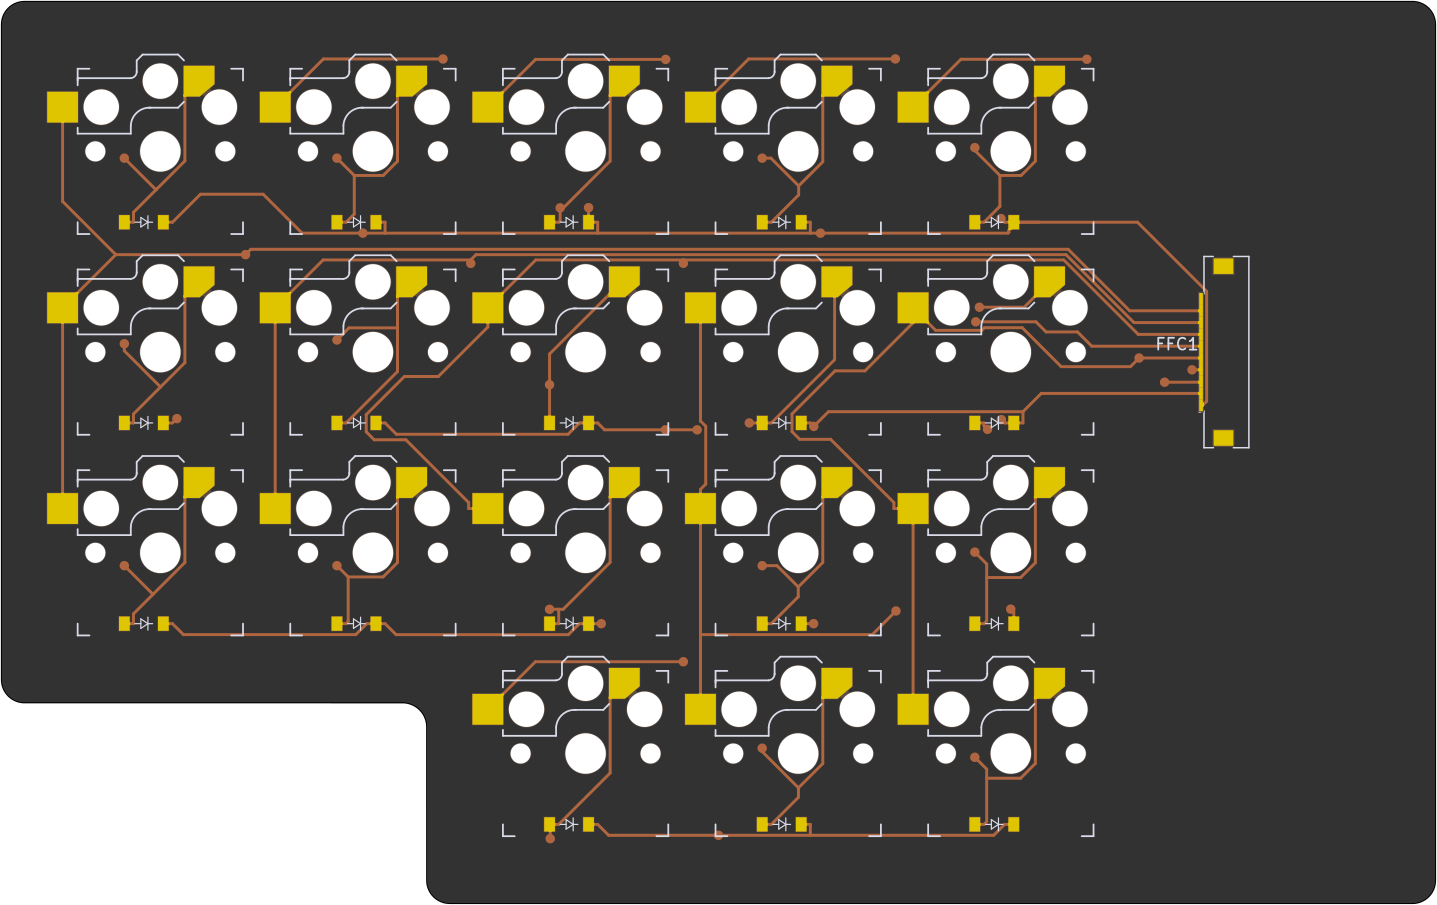
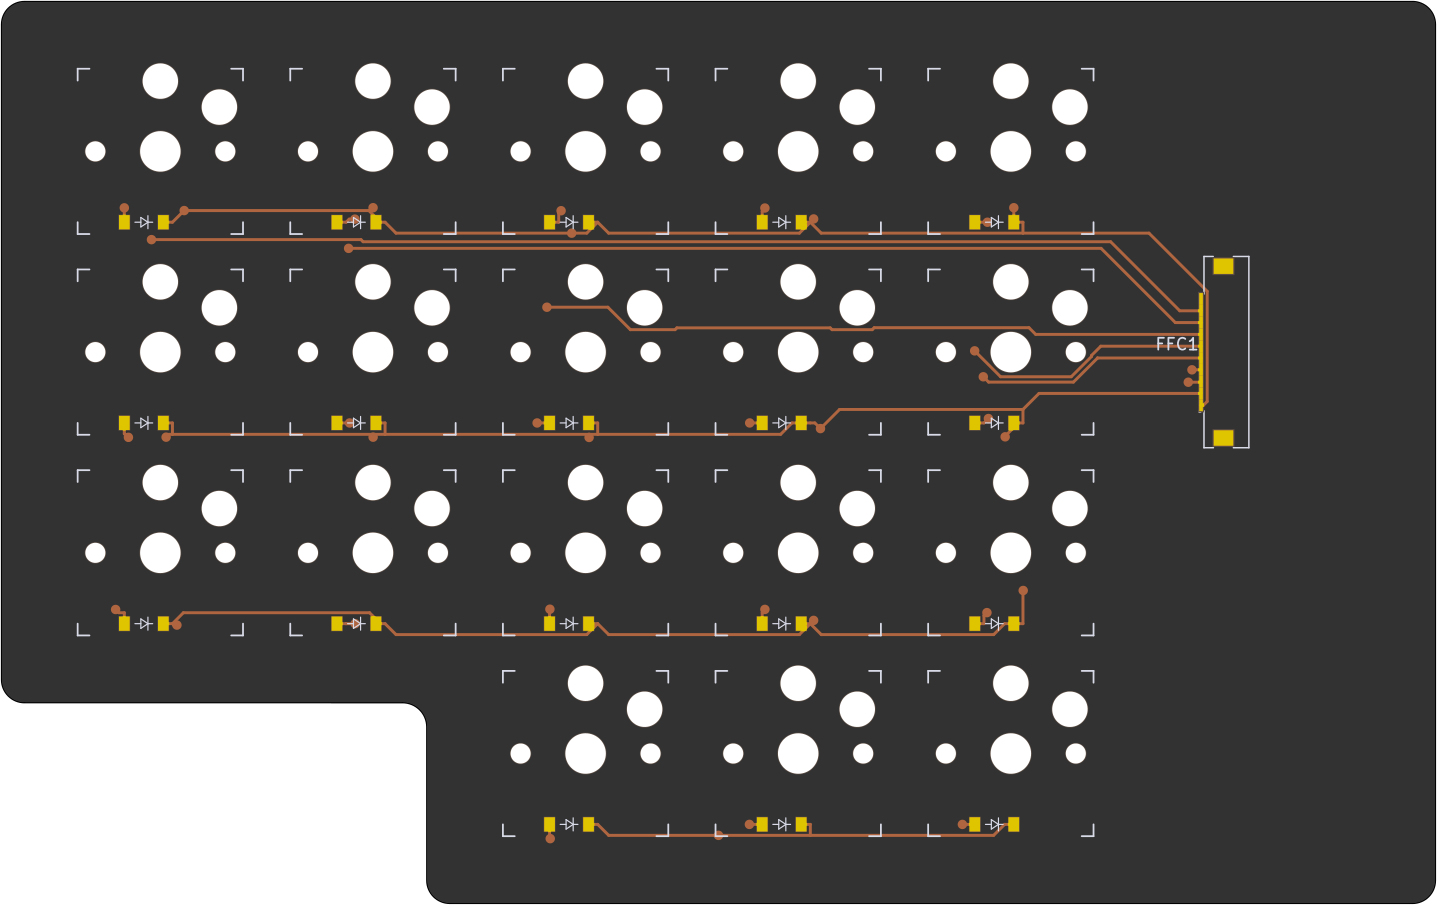
Make board one-sided until I can figure out why routing has so many through holes

diff --git a/input/footprints/diode.js b/input/footprints/diode.js
@@ -3,13 +3,15 @@
 // @infused-kim's improvements:
 //  - Added option to hide thru-holes
 //  - Added virtual attribute to silence DRC error
+//  - Added attribute to indicate which side to include diode. Values can be "front", "back", or "both"
 
 module.exports = {
     params: {
         designator: 'D',
         include_tht: true,
         from: undefined,
-        to: undefined
+        to: undefined,
+        side: 'back'
     },
     body: p => {
 
@@ -18,23 +20,12 @@ module.exports = {
         (pad 2 thru_hole circle (at 3.81 0 ${p.rot}) (size 1.905 1.905) (drill 0.9906) (layers *.Cu *.Mask) ${p.from.str})
         `;
 
-        const footprint = `
-    (module ComboDiode (layer F.Cu) (tedit 5B24D78E)
-        ${p.at /* parametric position */}
-        (attr virtual)
-
+        const back = `
         ${'' /* footprint reference */}
-        (fp_text reference "${p.ref}" (at 0 0) (layer F.SilkS) ${p.ref_hide} (effects (font (size 1.27 1.27) (thickness 0.15))))
-        (fp_text value "" (at 0 0) (layer F.SilkS) hide (effects (font (size 1.27 1.27) (thickness 0.15))))
+        (fp_text reference "${p.ref}" (at 0 0) (layer B.SilkS) ${p.ref_hide} (effects (font (size 1.27 1.27) (thickness 0.15))))
+        (fp_text value "" (at 0 0) (layer B.SilkS) hide (effects (font (size 1.27 1.27) (thickness 0.15))))
 
         ${''/* diode symbols */}
-        (fp_line (start 0.25 0) (end 0.75 0) (layer F.SilkS) (width 0.1))
-        (fp_line (start 0.25 0.4) (end -0.35 0) (layer F.SilkS) (width 0.1))
-        (fp_line (start 0.25 -0.4) (end 0.25 0.4) (layer F.SilkS) (width 0.1))
-        (fp_line (start -0.35 0) (end 0.25 -0.4) (layer F.SilkS) (width 0.1))
-        (fp_line (start -0.35 0) (end -0.35 0.55) (layer F.SilkS) (width 0.1))
-        (fp_line (start -0.35 0) (end -0.35 -0.55) (layer F.SilkS) (width 0.1))
-        (fp_line (start -0.75 0) (end -0.35 0) (layer F.SilkS) (width 0.1))
         (fp_line (start 0.25 0) (end 0.75 0) (layer B.SilkS) (width 0.1))
         (fp_line (start 0.25 0.4) (end -0.35 0) (layer B.SilkS) (width 0.1))
         (fp_line (start 0.25 -0.4) (end 0.25 0.4) (layer B.SilkS) (width 0.1))
@@ -44,15 +35,41 @@ module.exports = {
         (fp_line (start -0.75 0) (end -0.35 0) (layer B.SilkS) (width 0.1))
 
         ${''/* SMD pads on both sides */}
-        (pad 1 smd rect (at -1.65 0 ${p.rot}) (size 0.9 1.2) (layers F.Cu F.Paste F.Mask) ${p.to.str})
-        (pad 2 smd rect (at 1.65 0 ${p.rot}) (size 0.9 1.2) (layers B.Cu B.Paste B.Mask) ${p.from.str})
         (pad 1 smd rect (at -1.65 0 ${p.rot}) (size 0.9 1.2) (layers B.Cu B.Paste B.Mask) ${p.to.str})
-        (pad 2 smd rect (at 1.65 0 ${p.rot}) (size 0.9 1.2) (layers F.Cu F.Paste F.Mask) ${p.from.str})
+        (pad 2 smd rect (at 1.65 0 ${p.rot}) (size 0.9 1.2) (layers B.Cu B.Paste B.Mask) ${p.from.str})
+        `
 
-        ${''/* THT terminals */}
-        ${ p.include_tht ? tht : '' }
-    )
-    `
+        const front = `
+        ${'' /* footprint reference */}
+        (fp_text reference "${p.ref}" (at 0 0) (layer F.SilkS) ${p.ref_hide} (effects (font (size 1.27 1.27) (thickness 0.15))))
+        (fp_text value "" (at 0 0) (layer F.SilkS) hide (effects (font (size 1.27 1.27) (thickness 0.15))))
+        
+        ${''/* diode symbols */}
+        (fp_line (start 0.25 0) (end 0.75 0) (layer F.SilkS) (width 0.1))
+        (fp_line (start 0.25 0.4) (end -0.35 0) (layer F.SilkS) (width 0.1))
+        (fp_line (start 0.25 -0.4) (end 0.25 0.4) (layer F.SilkS) (width 0.1))
+        (fp_line (start -0.35 0) (end 0.25 -0.4) (layer F.SilkS) (width 0.1))
+        (fp_line (start -0.35 0) (end -0.35 0.55) (layer F.SilkS) (width 0.1))
+        (fp_line (start -0.35 0) (end -0.35 -0.55) (layer F.SilkS) (width 0.1))
+        (fp_line (start -0.75 0) (end -0.35 0) (layer F.SilkS) (width 0.1))
+
+        ${''/* SMD pads on both sides */}
+        (pad 1 smd rect (at -1.65 0 ${p.rot}) (size 0.9 1.2) (layers F.Cu F.Paste F.Mask) ${p.to.str})
+        (pad 2 smd rect (at 1.65 0 ${p.rot}) (size 0.9 1.2) (layers F.Cu F.Paste F.Mask) ${p.from.str})
+        `
+
+        const footprint = `
+        (module ComboDiode (layer ${ p.side == 'back' ? 'B' : 'F' }.Cu) (tedit 5B24D78E)
+            ${p.at /* parametric position */}
+            (attr virtual)
+    
+            ${ p.side == 'front' || p.side == 'both' ? front : '' }
+            ${ p.side == 'back' || p.side == 'both' ? back : '' }
+            
+            ${''/* THT terminals */}
+            ${ p.include_tht ? tht : '' }
+        )
+        `
 
     return footprint;
     }
